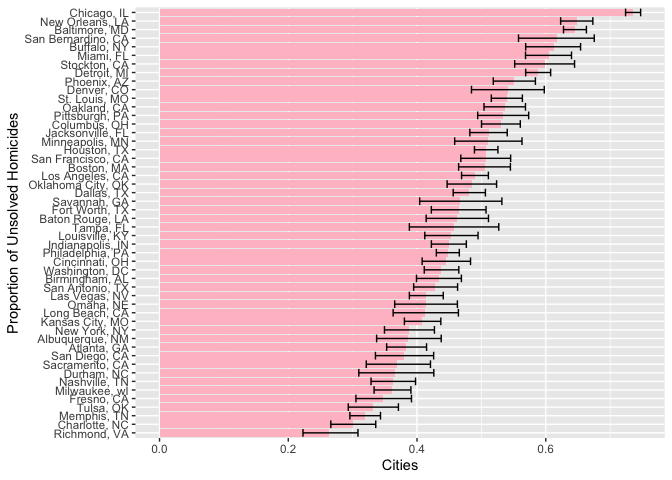
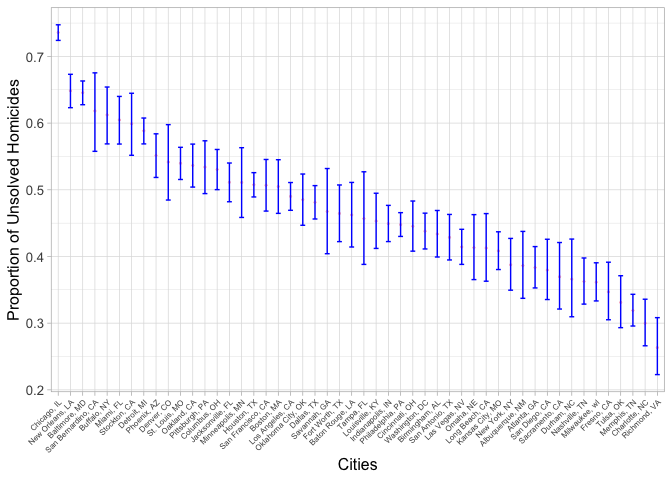
Submission

diff --git a/p8105_hw5_ly2633.md b/p8105_hw5_ly2633.md
@@ -149,8 +149,6 @@ observed effects, leading to an upward bias in the estimate of 𝜇.
 
 # Problem 3
 
-Describe the raw data.
-
 ``` r
 # load the data
 homicide_data = 
@@ -281,11 +279,26 @@ homicides.
 
 ``` r
 # create a plot and add error bars
-city_proportion_estimates %>%
-  ggplot(aes (y=fct_reorder(city_state, estimate), x=estimate)) + 
-  geom_bar(stat="identity", fill="pink") +
-  geom_errorbar(aes(xmin=conf.low, xmax =conf.high)) +
-  labs(x="Cities", y="Proportion of Unsolved Homicides")
+# Rank cities according to the proportion of unsolved homicides
+city_proportion_estimates <- city_proportion_estimates %>%
+  arrange(desc(estimate)) %>%
+  mutate(city_state = factor(city_state, levels = city_state))
+
+
+ggplot(city_proportion_estimates, aes(x=city_state, y=estimate)) +
+  geom_point(size = 0.40, color="pink") +
+  geom_errorbar(aes(ymin = conf.low, ymax = conf.high), width = 0.40, color = "blue") +
+  labs(x="Cities",
+        y="Proportion of Unsolved Homicides"
+  ) + 
+  theme_light() +
+  theme(
+      plot.title = element_text(size = 14, hjust = 0.5),
+      axis.title.x = element_text(size = 12),
+      axis.title.y = element_text(size = 12),
+      axis.text.x = element_text(angle = 45, hjust = 1, size = 6),
+      axis.text.y = element_text(size = 10)  
+  )
 ```
 
 ![](p8105_hw5_ly2633_files/figure-gfm/unnamed-chunk-9-1.png)<!-- -->
